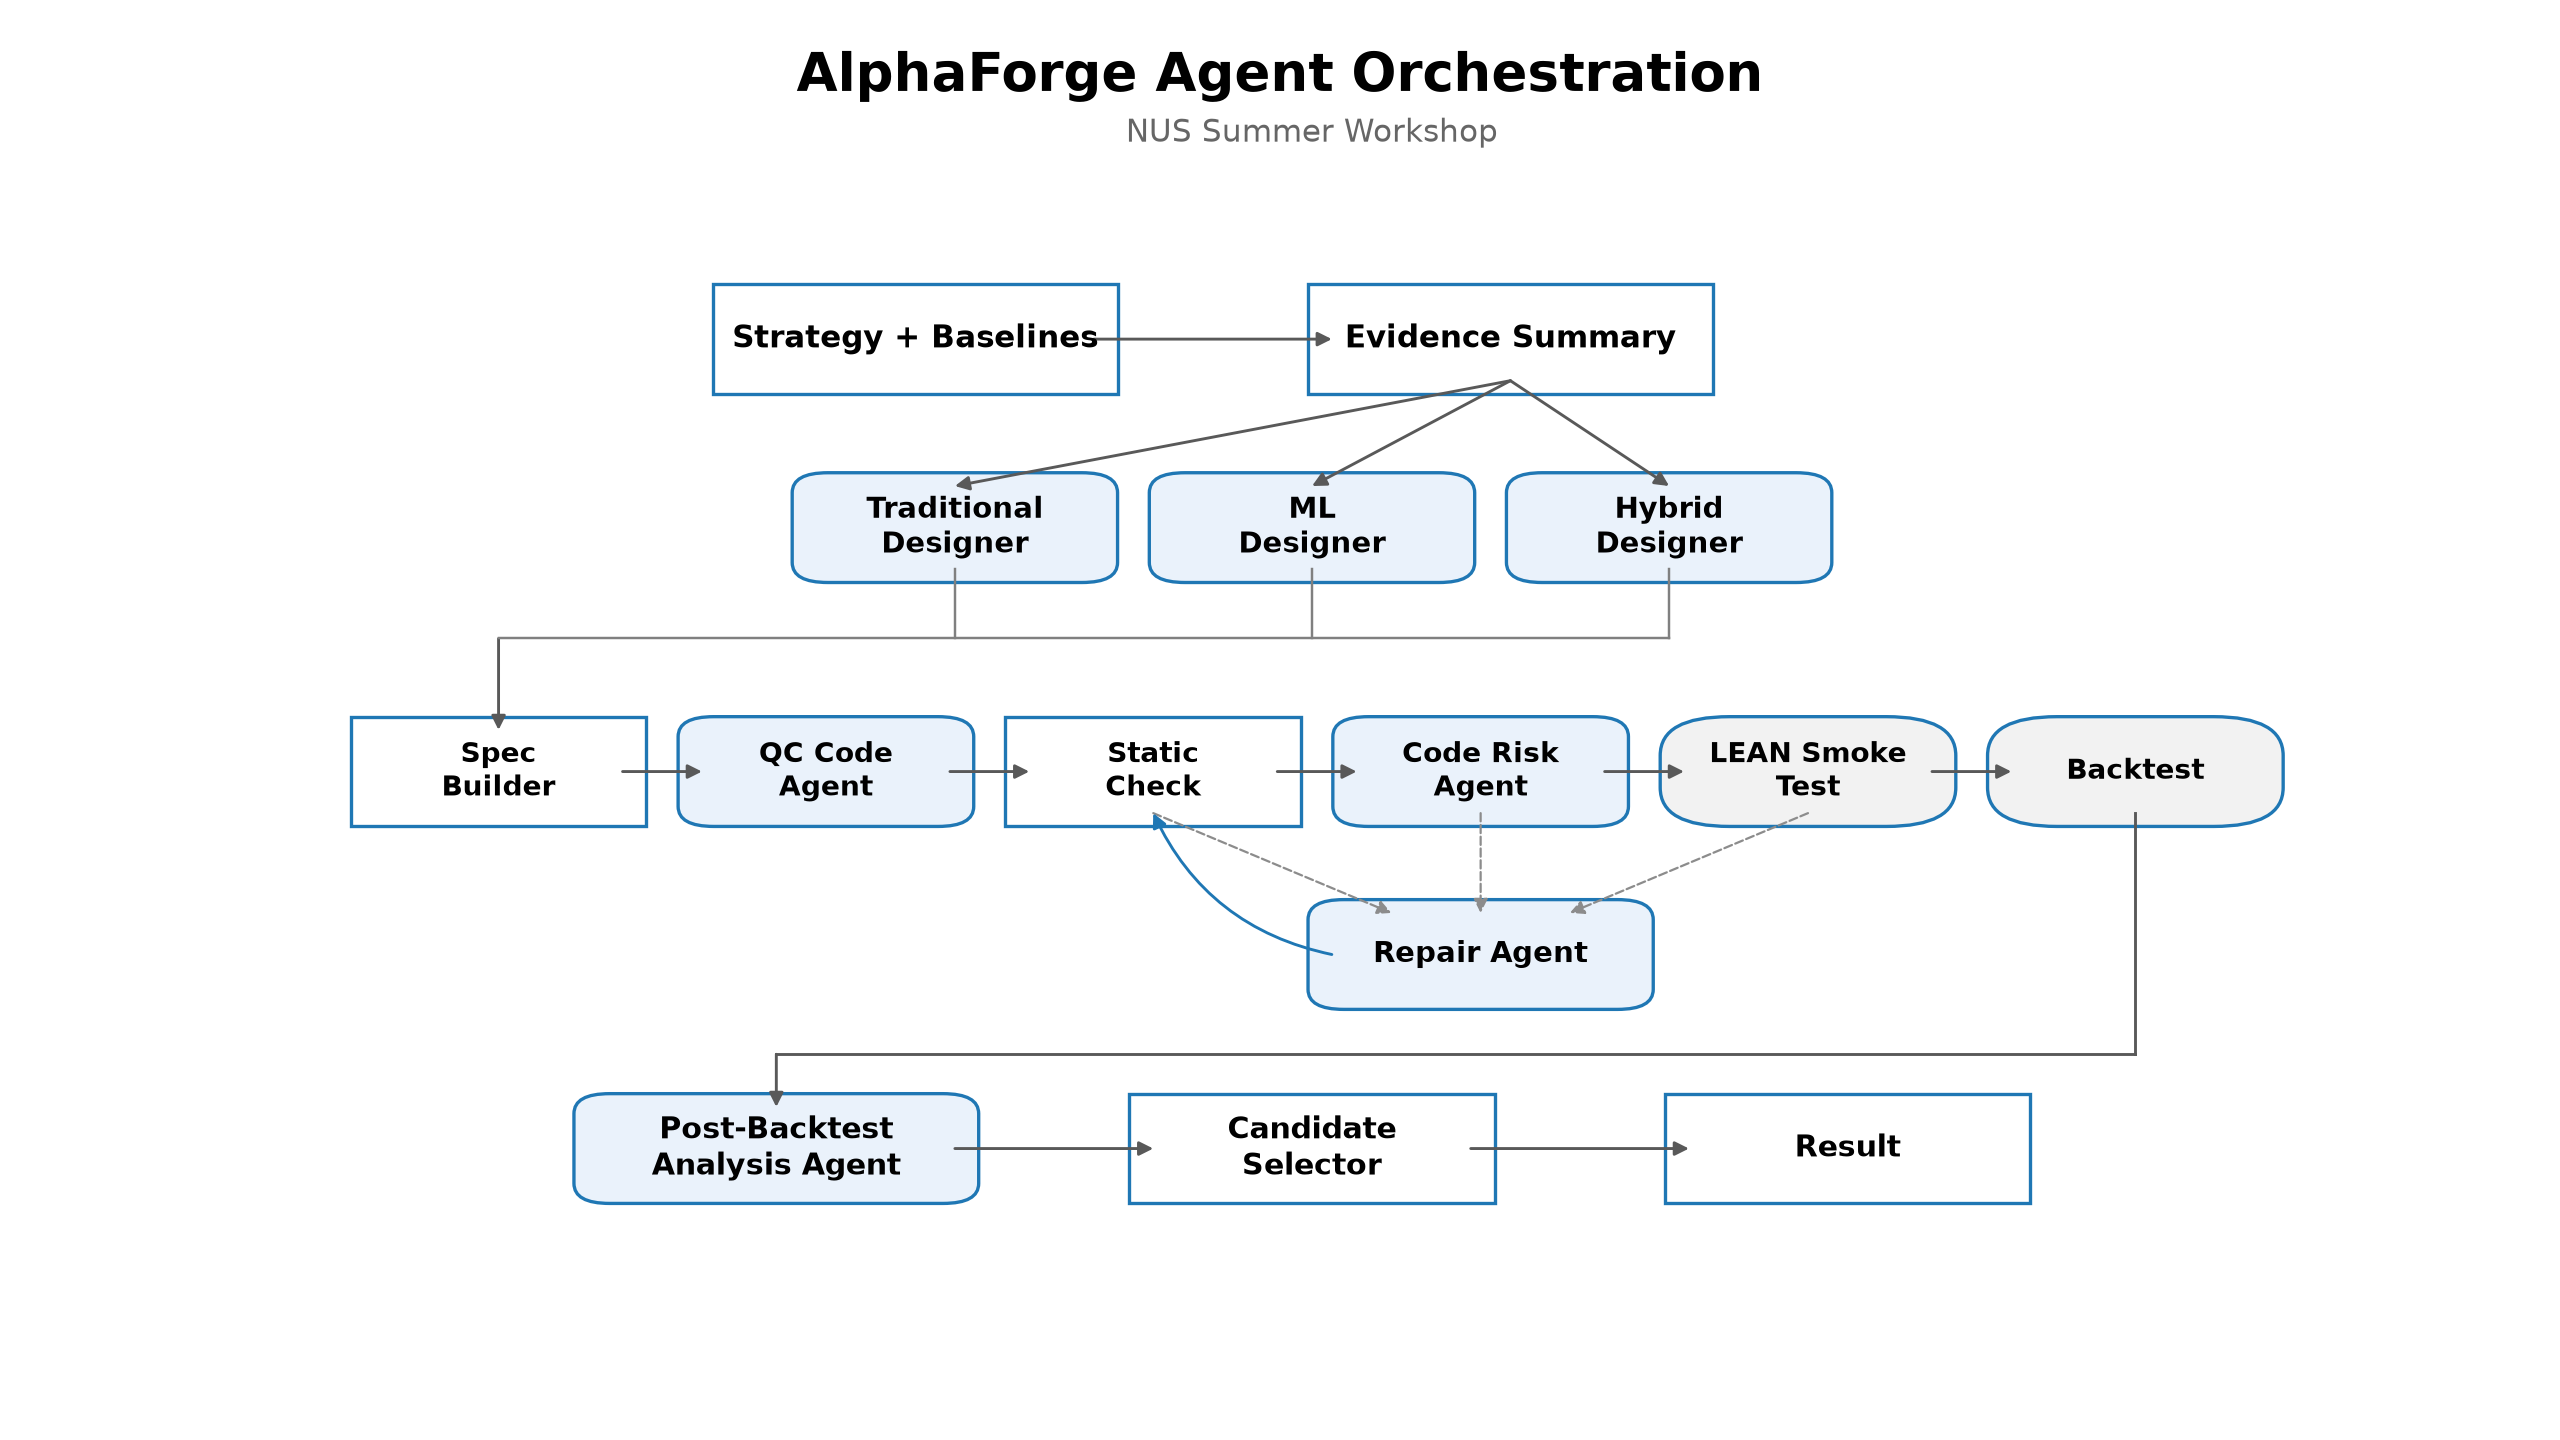
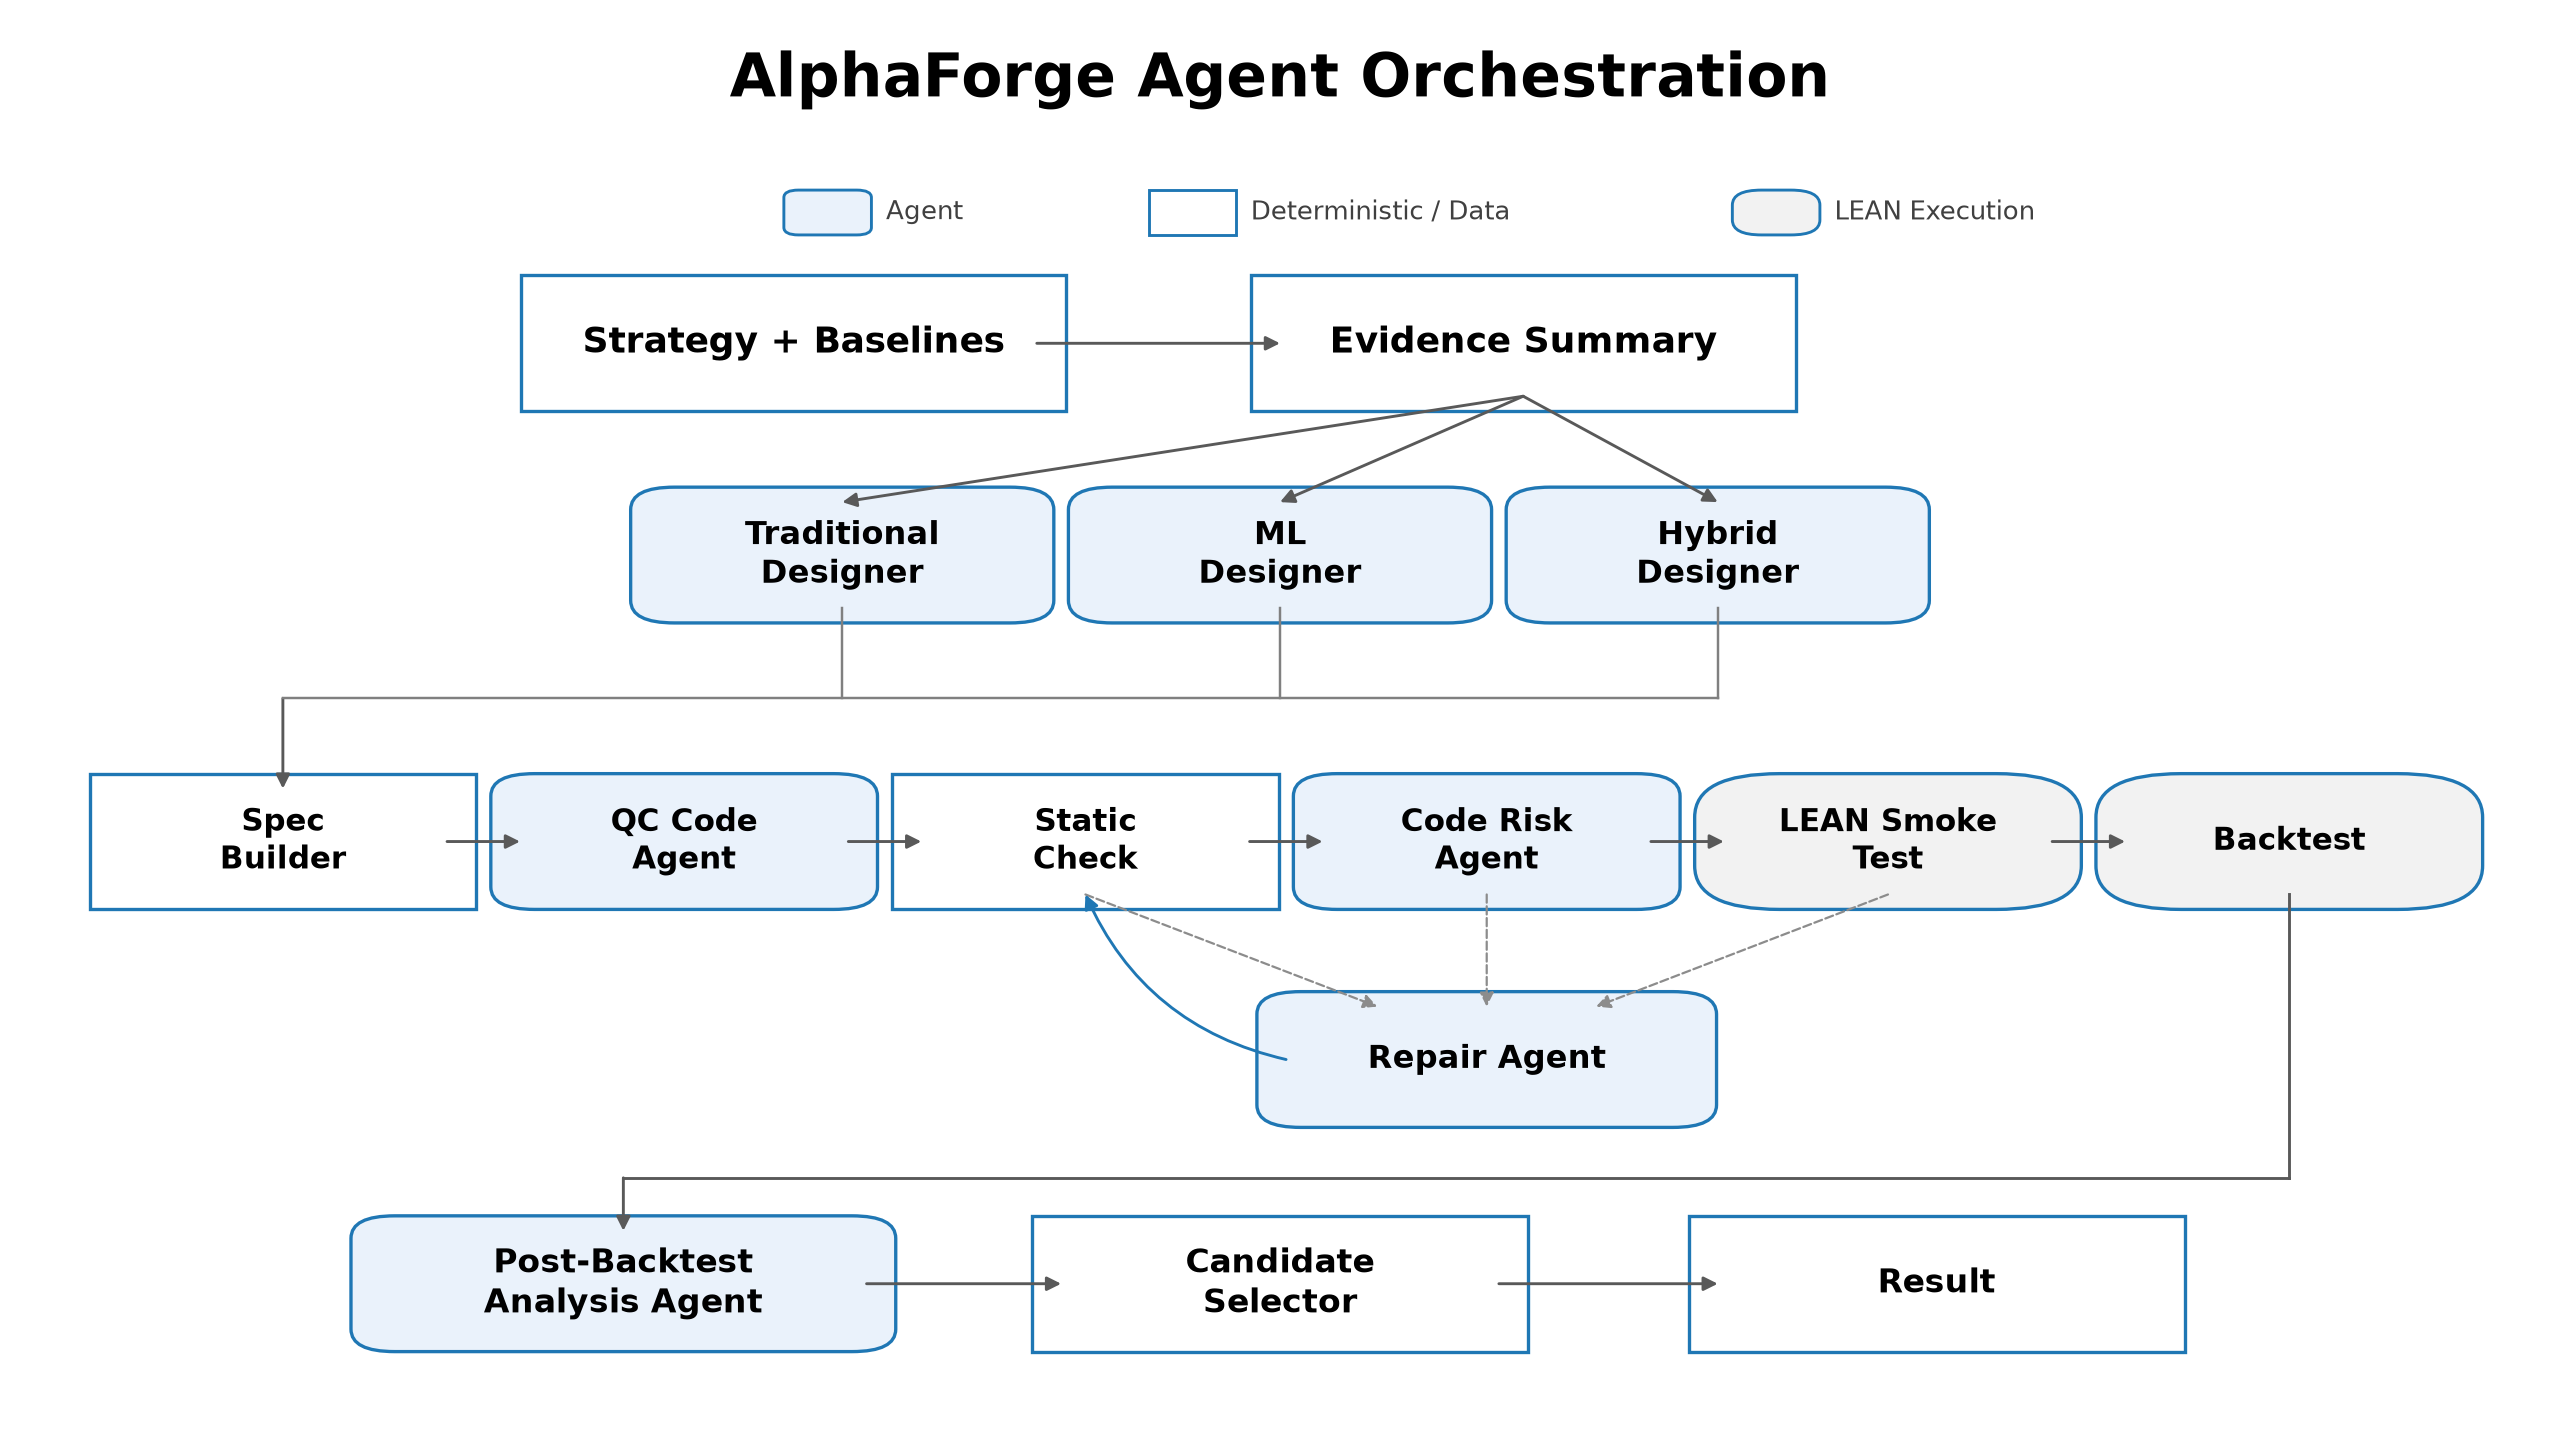
Enlarge diagram and add node legend

diff --git a/scripts/render_agent_orchestration.py b/scripts/render_agent_orchestration.py
@@ -20,6 +20,7 @@ OUTPUT = ROOT / "docs" / "architecture" / "AlphaForge_Agent_Orchestration.png"
 BLUE = "C0"
 AGENT_FILL = "#eaf2fb"
 EXECUTION_FILL = "#f2f2f2"
+NODE_HEIGHT = 0.085
 
 
 def node(
@@ -29,7 +30,7 @@ def node(
     text: str,
     *,
     width: float,
-    height: float = 0.075,
+    height: float = NODE_HEIGHT,
     kind: str = "component",
     fontsize: float = 13,
 ) -> None:
@@ -55,6 +56,30 @@ def node(
         )
     )
     ax.text(x, y, text, ha="center", va="center", fontsize=fontsize, weight="bold")
+
+
+def legend_item(ax, x: float, y: float, label: str, kind: str) -> None:
+    if kind == "agent":
+        facecolor = AGENT_FILL
+        boxstyle = "round,pad=0.004,rounding_size=0.006"
+    elif kind == "execution":
+        facecolor = EXECUTION_FILL
+        boxstyle = "round,pad=0.004,rounding_size=0.012"
+    else:
+        facecolor = "white"
+        boxstyle = "square,pad=0.004"
+    ax.add_patch(
+        FancyBboxPatch(
+            (x, y - 0.014),
+            0.028,
+            0.028,
+            boxstyle=boxstyle,
+            linewidth=1.3,
+            edgecolor=BLUE,
+            facecolor=facecolor,
+        )
+    )
+    ax.text(x + 0.038, y, label, ha="left", va="center", fontsize=11.5, color="0.25")
 
 
 def arrow(
@@ -87,17 +112,20 @@ def main() -> None:
     plt.style.use("default")
     fig, ax = plt.subplots(figsize=(16, 9), dpi=160)
     fig.patch.set_facecolor("white")
+    fig.subplots_adjust(left=0.025, right=0.975, bottom=0.035, top=0.90)
     ax.set_xlim(0, 1)
     ax.set_ylim(0, 1)
     ax.axis("off")
 
-    fig.suptitle("AlphaForge Agent Orchestration", fontsize=24, weight="bold", y=0.965)
-    ax.set_title("NUS Summer Workshop", fontsize=14, color="0.4", pad=14)
+    fig.suptitle("AlphaForge Agent Orchestration", fontsize=27, weight="bold", y=0.965)
+    legend_item(ax, 0.30, 0.945, "Agent", "agent")
+    legend_item(ax, 0.45, 0.945, "Deterministic / Data", "component")
+    legend_item(ax, 0.69, 0.945, "LEAN Execution", "execution")
 
     # Input and shared evidence.
-    node(ax, 0.30, 0.85, "Strategy + Baselines", width=0.18, fontsize=14)
-    node(ax, 0.60, 0.85, "Evidence Summary", width=0.18, fontsize=14)
-    arrow(ax, (0.39, 0.85), (0.51, 0.85))
+    node(ax, 0.30, 0.84, "Strategy + Baselines", width=0.20, fontsize=16)
+    node(ax, 0.60, 0.84, "Evidence Summary", width=0.20, fontsize=16)
+    arrow(ax, (0.40, 0.84), (0.50, 0.84))
 
     # Three strategy designers run in parallel.
     designers = (
@@ -106,15 +134,15 @@ def main() -> None:
         (0.68, "Hybrid\nDesigner"),
     )
     for x, label in designers:
-        node(ax, x, 0.68, label, width=0.14, kind="agent", fontsize=13)
+        node(ax, x, 0.67, label, width=0.15, kind="agent", fontsize=14.5)
         arrow(
             ax,
-            (0.60, 0.85 - 0.0375),
-            (x, 0.68 + 0.0375),
+            (0.60, 0.84 - NODE_HEIGHT / 2),
+            (x, 0.67 + NODE_HEIGHT / 2),
         )
 
     # A shared pipeline is executed independently for every design.
-    pipeline_y = 0.46
+    pipeline_y = 0.44
     pipeline = (
         (0.09, "Spec\nBuilder", "component"),
         (0.255, "QC Code\nAgent", "agent"),
@@ -124,52 +152,52 @@ def main() -> None:
         (0.915, "Backtest", "execution"),
     )
     for x, label, kind in pipeline:
-        node(ax, x, pipeline_y, label, width=0.125, kind=kind, fontsize=12.5)
+        node(ax, x, pipeline_y, label, width=0.135, kind=kind, fontsize=14)
     for left, right in zip(pipeline, pipeline[1:]):
-        arrow(ax, (left[0] + 0.0625, pipeline_y), (right[0] - 0.0625, pipeline_y))
+        arrow(ax, (left[0] + 0.0675, pipeline_y), (right[0] - 0.0675, pipeline_y))
 
     # The three designer outputs feed the same per-candidate pipeline contract.
-    bus_y = 0.58
+    bus_y = 0.555
     for x, _ in designers:
-        ax.plot([x, x], [0.68 - 0.0375, bus_y], color="0.5", linewidth=1.1)
+        ax.plot([x, x], [0.67 - NODE_HEIGHT / 2, bus_y], color="0.5", linewidth=1.1)
     ax.plot([0.09, 0.68], [bus_y, bus_y], color="0.5", linewidth=1.1)
-    arrow(ax, (0.09, bus_y), (0.09, pipeline_y + 0.0375))
+    arrow(ax, (0.09, bus_y), (0.09, pipeline_y + NODE_HEIGHT / 2))
 
     # Repair is a small local loop around implementation checks.
-    node(ax, 0.585, 0.295, "Repair Agent", width=0.15, kind="agent", fontsize=13)
+    node(ax, 0.585, 0.265, "Repair Agent", width=0.165, kind="agent", fontsize=14.5)
     for source_x, target_x in ((0.42, 0.54), (0.585, 0.585), (0.75, 0.63)):
         arrow(
             ax,
-            (source_x, pipeline_y - 0.0375),
-            (target_x, 0.295 + 0.0375),
+            (source_x, pipeline_y - NODE_HEIGHT / 2),
+            (target_x, 0.265 + NODE_HEIGHT / 2),
             color="0.55",
             linestyle="--",
             linewidth=1.0,
         )
     arrow(
         ax,
-        (0.585 - 0.075, 0.295),
-        (0.42, pipeline_y - 0.0375),
+        (0.585 - 0.0825, 0.265),
+        (0.42, pipeline_y - NODE_HEIGHT / 2),
         color=BLUE,
         connectionstyle="arc3,rad=-0.25",
     )
 
     # All candidate results are considered together, then selected and returned.
-    final_y = 0.12
+    final_y = 0.085
     final = (
-        (0.23, "Post-Backtest\nAnalysis Agent", "agent", 0.18),
-        (0.50, "Candidate\nSelector", "component", 0.16),
-        (0.77, "Result", "component", 0.16),
+        (0.23, "Post-Backtest\nAnalysis Agent", "agent", 0.20),
+        (0.50, "Candidate\nSelector", "component", 0.18),
+        (0.77, "Result", "component", 0.18),
     )
     for x, label, kind, width in final:
-        node(ax, x, final_y, label, width=width, kind=kind, fontsize=13.5)
-    arrow(ax, (0.23 + 0.09, final_y), (0.50 - 0.08, final_y))
-    arrow(ax, (0.50 + 0.08, final_y), (0.77 - 0.08, final_y))
+        node(ax, x, final_y, label, width=width, kind=kind, fontsize=15)
+    arrow(ax, (0.23 + 0.10, final_y), (0.50 - 0.09, final_y))
+    arrow(ax, (0.50 + 0.09, final_y), (0.77 - 0.09, final_y))
 
     # Row transition from the final pipeline stage to post-backtest analysis.
-    ax.plot([0.915, 0.915], [pipeline_y - 0.0375, 0.205], color="0.35", linewidth=1.3)
-    ax.plot([0.915, 0.23], [0.205, 0.205], color="0.35", linewidth=1.3)
-    arrow(ax, (0.23, 0.205), (0.23, final_y + 0.0375))
+    ax.plot([0.915, 0.915], [pipeline_y - NODE_HEIGHT / 2, 0.17], color="0.35", linewidth=1.3)
+    ax.plot([0.915, 0.23], [0.17, 0.17], color="0.35", linewidth=1.3)
+    arrow(ax, (0.23, 0.17), (0.23, final_y + NODE_HEIGHT / 2))
 
     fig.savefig(OUTPUT, facecolor="white")
     plt.close(fig)
